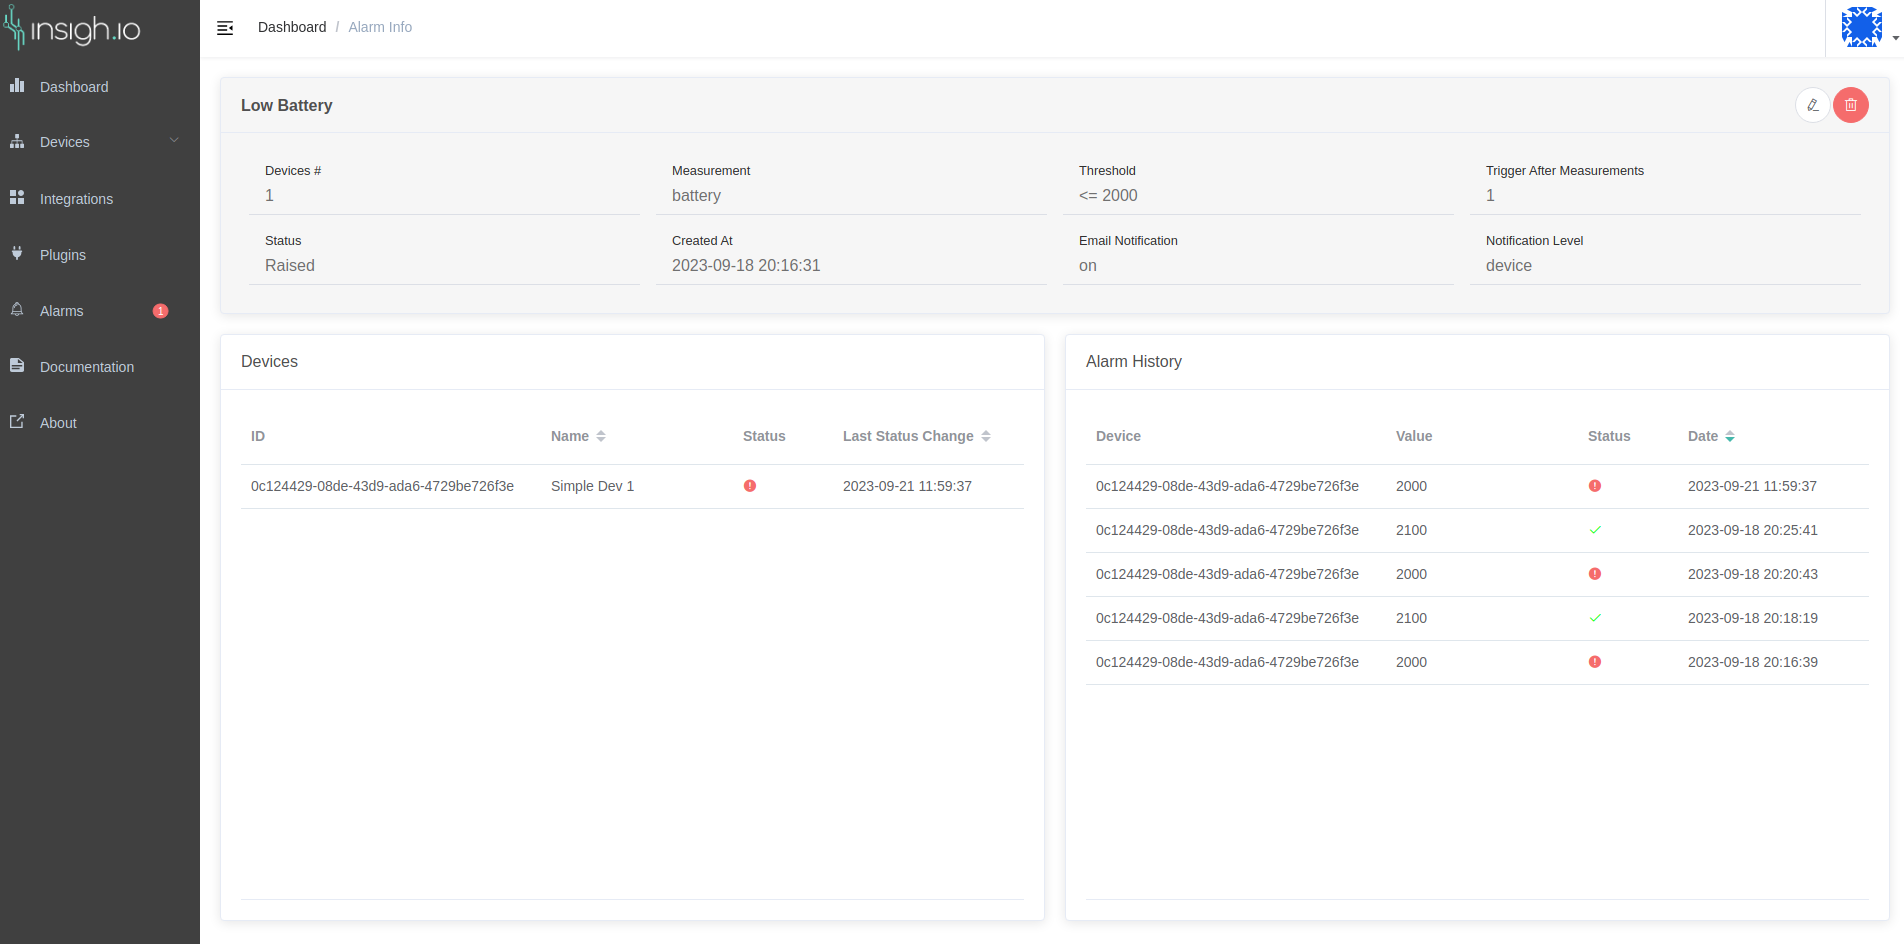
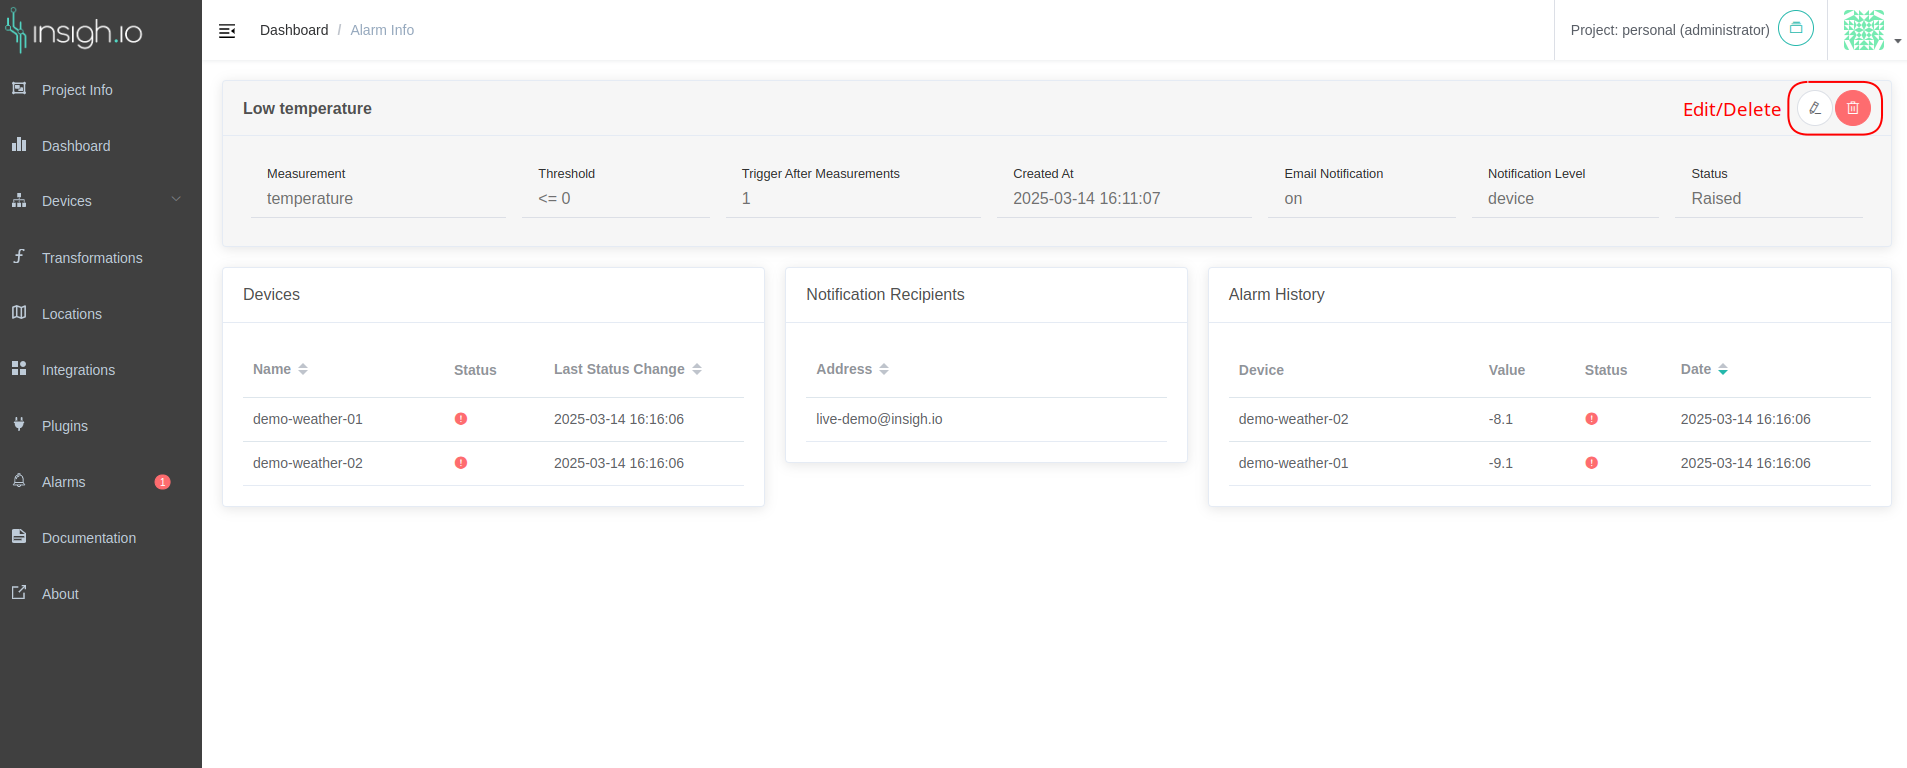
Updated alarms documentation for v2.8.0

diff --git a/content/cloudplatform/ui/alarms/_index.en.md b/content/cloudplatform/ui/alarms/_index.en.md
@@ -5,28 +5,40 @@ parent: "uioverview"
 weight: 5600
 ---
 
-With the alarms service, users can be notified if a value of a measurement surpasses or drops below a configurable threshold in one or more devices. The service provides:
+With the alarms service, users can define rules to monitor critical measurements and deviations from expected values. The service processes incoming measurements in **real time**, updates the status of the alarm accordingly and optionally notifies the user when the status changes.
 
-- An overview of the alarms' status
-- The status of each alarm at the device level
-- The history of the alarm status changes at the device level
+Alarms are threshold-based and can be defined for one or more devices for a specific measurement. Users are notified via the insigh.io Console, while they are using the application, but the service also supports email notifications. Since an alarm can be defined for multiple devices with a common measurement, the alarm status is tracked both at the group level and the device level. The service also stores historical status change information, so users can monitor when the alarm was raised or reset for each device.
 
 ### Alarm Creation
 
 To create an alarm, select the "Alarms" option on the insigh.io console sidebar, which shows the alarms list, and then click on the "+" button at the navigation bar.
 
-![Alarms Alarm Creation](/images/console_tutorial/alarms/alarms_list.png?width=60pc)
+![Alarms List](/images/console_tutorial/alarms/alarms_list.png?width=60pc)
 
-In the alarm creation form, the following information needs to be provided:
+The alarm creation dialog has two steps; the alarm rule configuration and the notification configuration.
 
-- The **Device(s)** which will be monitored by the alarm. Multiple devices may be selected for each alarm. Devices can be added or removed when updating an alarm. Note that if all devices are selected and then a new device is created, then the alarm needs to be edited and include the new device too. If devices are deleted from the insigh.io console, the respective alarms are also updated.
-- The **Measurement** that the alarm monitors. Only one measurement can be defined for each alarm. The measurement cannot change after the alarm creation. If multiple devices are selected, only a common measurement can be selected for the alarm.
+In the alarm rule configuration step, the following information is required:
+
+- The **Device(s)** which will be monitored by the alarm. Multiple devices may be selected for each alarm, as long as they have at least a common measurement. Devices can be added or removed when updating an alarm, provided that the added or removed devices also have the alarm measurement. Note that if all devices are selected and then a new device is created, then the alarm needs to be edited and include the new device too. If devices are deleted from the insigh.io console, the respective alarms are also updated.
+- The **Measurement** that the alarm monitors. Only one measurement can be defined for each alarm. The measurement cannot change after the alarm creation. If multiple devices are selected, only a common measurement can be selected for the alarm. A measurement coming from the transformations service (i.e., second-level measurement) can also be selected for an alarm.
 - The alarm **Name**
 - The **Threshold** expression. Users need to provide the threshold operator (e.g., <, >=, etc.) and a value for the threshold. The service monitors incoming measurements and if the expression of the threshold evaluates to true, then the alarm is triggered.
 - The **Trigger after # measurements** setting, which defines the required number of consecutive measurements for which the threshold expression evaluates to true to trigger the alarm. For example, if the value is 3, then the alarm will be triggered only after 3 consecutive measurements' threshold expression evaluates to true. The same logic applies for the alarm reset; the alarm will be reset only after n number of consecutive measurements' threshold expression evaluates to false. The default value of this setting is 1. This setting is useful to avoid multiple alarm status changes in volatile measurements.
-- The **Email Notification** setting, which defaults to false. When enabled, two settings are available: the **Group Level** and **Device Level**. When in Group Level, the service triggers a notification when the alarm status changes. When in Device Level, the service triggers a notification when the device status changes. More information on the notification functionality is provided in the following sections.
 
-![Alarms Alarm Creation](/images/console_tutorial/alarms/alarm_create.png?width=30pc)
+![Alarm Creation Rule Step](/images/console_tutorial/alarms/alarm_create_rule_step.png?width=30pc)
+
+When all the required fields have been filled, the Next button is enabled and leads to the second step for the notification configuration. The notification is optional and currently only email notification is supported. Regardless of the notification configuration, users are always notified when an alarm is raised in the insigh.io Console application.
+
+![Alarm Creation Notification Step](/images/console_tutorial/alarms/alarm_create_notification_step.png?width=30pc)
+
+- The **Notification** setting, which defaults to false. When enabled, the notification type, recipients and notification level settings are also enabled.
+- The **Notification Type** setting only has the "Email" option.
+- The **Recipients** is a list of user emails to which the notification will be sent. Only users that are members of the current project can be selected.
+- The **Notification Type** has two values: the **Group** and **Device** levels. When in Group Level, the service triggers a notification when the alarm status changes. When in Device Level, the service triggers a notification when the device status changes. More information on how the alarm status is changed and the notification functionality is provided in the following sections.
+
+When the notification configuration is valid, the Create button is enabled and clicking it will create the alarm. The alarms list is refreshed and the alarm is not listed.
+
+![Alarms List Not Empty](/images/console_tutorial/alarms/alarms_list_not_empty.png?width=60pc)
 
 ### Alarm Status
 
@@ -52,11 +64,13 @@ The service provides two ways to notify the user for raised alarms: **Console** 
 
 #### Console Notifications
 
-The console notifications are always on and are shown in the insigh.io console. If there are raised alarms then, a notification badge is shown near the "Alarms" option in the sidebar. Moreover, the status of each alarm is shown in the alarms list. Finally, if there are raised alarms, a notification message is shown when the user logs into the application.
+The console notifications are always on and are shown in the insigh.io Console. If there are raised alarms then, a notification badge is shown near the "Alarms" option in the sidebar. Moreover, the status of each alarm is shown in the alarms list. Finally, if there are raised alarms, a notification message is shown when the user logs into the application.
 
 ![Alarms Console Notifications](/images/console_tutorial/alarms/alarms_console_notification.png?width=60pc)
 
-![Alarms Console Notifications](/images/console_tutorial/alarms/alarms_list_notification.png?width=60pc)
+The status of the alarm is also shown in the alarms list view.
+
+![Alarms List Notifications](/images/console_tutorial/alarms/alarms_list_notification.png?width=60pc)
 
 #### Email Notifications
 
@@ -67,11 +81,13 @@ The alarms service also supports notifications via email. Email notifications ar
 
 ### Alarm Info
 
-The alarm info page contains the alarm's information (i.e., name, number of devices, measurement, threshold, etc.) at the top of the page and two tables at the bottom with the following information:
+The alarm info page contains the following information:
 
-- The **Devices** table contains the device ID, Name, the status of the alarm for this device and the date of the last status change
-- The **Alarm History** table that contains the events of the status changes at the device level. Each event shows the device ID, the value of the measurement, the status and the date of the measurement.
+- The top card shows the alarm's configuration (i.e., name, measurement, threshold, etc.) and its status.
+- The **Devices** card (bottom left) shows the devices that have been configured for the alarm, the status of each device and when was the last status change.
+- The **Recipients** card (bottom middle) shows the configured email recipients. It is shown only when the email notification has been enabled for the alarm.
+- The **Alarm History** card (bottom right) lists the events of the status changes at the device level. Each event shows the device name, the value of the measurement, the status and the date of the event.
+
+From this view, users can also delete or edit the alarm using the buttons shown in the image.
 
 ![Alarms Alarm Info](/images/console_tutorial/alarms/alarm_info.png?width=60pc)
-
-From this view, users can also delete or edit the alarm.
